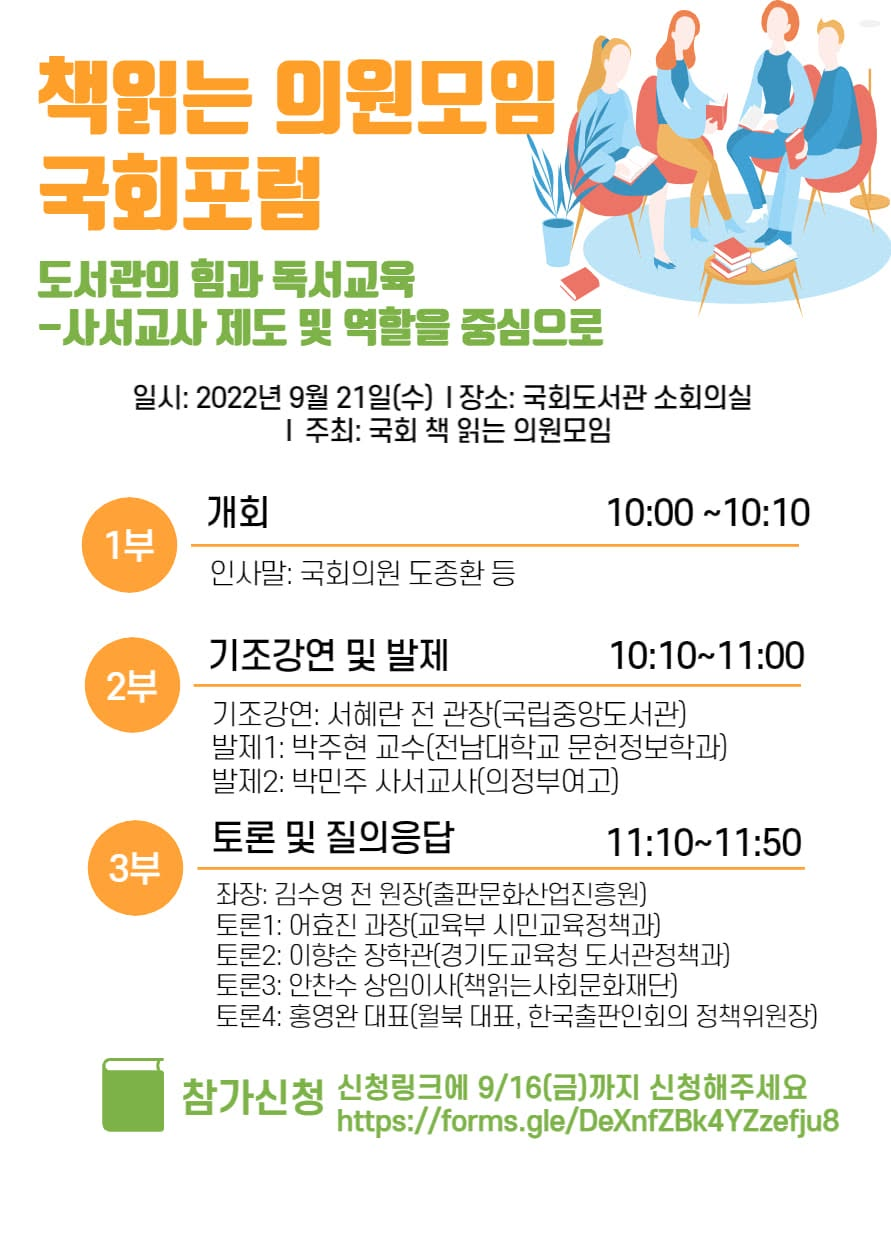
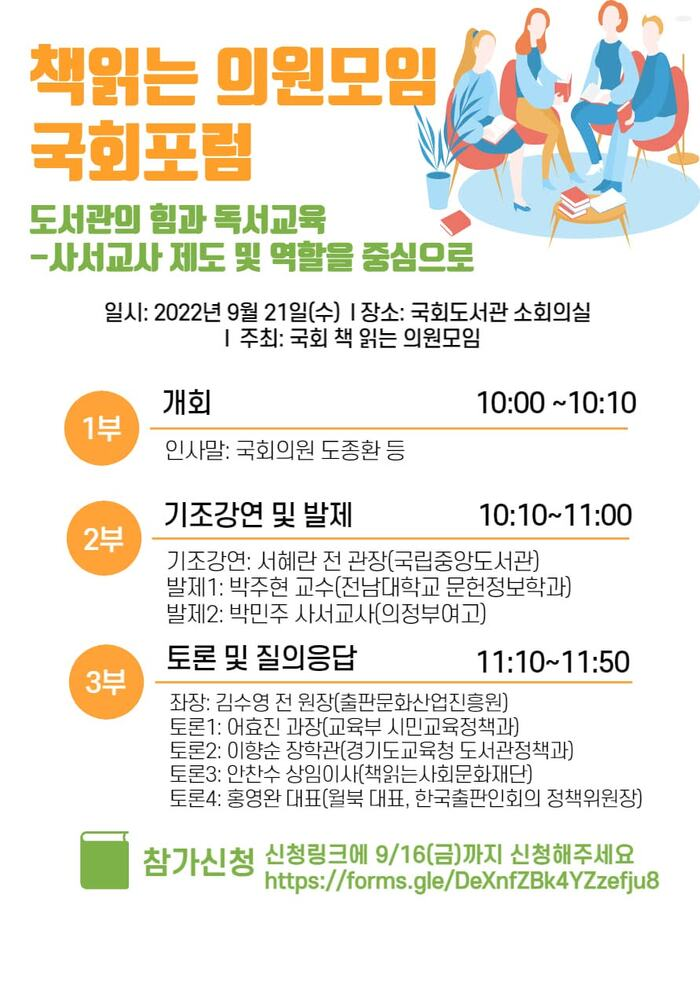
포스터 8장 모두 게시: 새 발표·토론 3건, 포스터 모음 구역, 이미지 700px로 축소
- 2023.11.09 5·18기록물 학술포럼 토론, 2024.05.30 글로컬 박람회 공공도서관 포럼 주제발표,
  2026.02.06 AI시대 독서인문교육 진흥 토론회 주제발표 기록 추가
- 미디어 페이지에 '포스터로 보는 발표·토론' 모음(작은 크기, 누르면 원본)
- 포스터 파일을 가로 700px 이하로 줄여 용량 감소, 대표 카드 포스터 높이 축소

Claude-Session: https://claude.ai/code/session_01QAEQGUMJ4TmmKtuTwDoHCS

diff --git a/assets/css/style.css b/assets/css/style.css
@@ -753,8 +753,8 @@ textarea { resize: vertical; min-height: 100px; line-height: 1.6; }
 .media-card__thumb { aspect-ratio: 16 / 9; background: var(--surface-2); overflow: hidden; }
 .media-card__thumb img { width: 100%; height: 100%; object-fit: cover; display: block; }
 /* 포스터는 세로가 길어 잘라 내지 않고 통째로 보여 줍니다. */
-.media-card__thumb--poster { aspect-ratio: auto; max-height: 420px; display: flex; justify-content: center; }
-.media-card__thumb--poster img { width: auto; max-width: 100%; height: auto; max-height: 420px; object-fit: contain; }
+.media-card__thumb--poster { aspect-ratio: auto; max-height: 320px; display: flex; justify-content: center; }
+.media-card__thumb--poster img { width: auto; max-width: 100%; height: auto; max-height: 320px; object-fit: contain; }
 .media-card__body { padding: 1.1rem 1.25rem 1.25rem; display: flex; flex-direction: column; gap: .35rem; }
 .media-card__title { font-family: var(--font-serif); font-size: 1.1rem; line-height: 1.45; margin: .2rem 0 0; }
 .media-card__title a { color: var(--ink); }
@@ -918,3 +918,14 @@ textarea { resize: vertical; min-height: 100px; line-height: 1.6; }
 .en-pubs__title { grid-column: 1; font-weight: 500; }
 .en-pubs li > .small { grid-column: 1; }
 .en-pubs__cites { grid-column: 2; grid-row: 1 / span 2; font-weight: 700; color: var(--navy); white-space: nowrap; font-variant-numeric: tabular-nums; }
+
+/* ---------- 18. 미디어 페이지 포스터 모음 ---------- */
+.poster-wall { list-style: none; margin: 0; padding: 0; display: grid; gap: 1rem;
+  grid-template-columns: repeat(auto-fill, minmax(150px, 1fr)); }
+.poster-wall a { display: grid; gap: .4rem; color: inherit; text-decoration: none; }
+.poster-wall img { width: 100%; aspect-ratio: 7 / 10; object-fit: cover; object-position: top;
+  border-radius: 8px; border: 1px solid var(--line); background: var(--surface-2); transition: transform .15s, box-shadow .15s; }
+.poster-wall a:hover img, .poster-wall a:focus-visible img { transform: translateY(-2px); box-shadow: 0 6px 18px rgb(0 0 0 / .12); }
+.poster-wall__date { font-size: .78rem; color: var(--ink-faint); font-variant-numeric: tabular-nums; }
+.poster-wall__title { font-size: .85rem; line-height: 1.4; display: -webkit-box; -webkit-line-clamp: 2; -webkit-box-orient: vertical; overflow: hidden; }
+@media (max-width: 420px) { .poster-wall { grid-template-columns: repeat(2, minmax(0, 1fr)); gap: .8rem; } }

diff --git a/assets/js/media.js b/assets/js/media.js
@@ -23,6 +23,7 @@
       document.getElementById('total').textContent = String(DATA.items.length);
       renderStats();
       renderFeatured();
+      renderPosters();
       renderUpcoming();
       buildFilters();
       render();
@@ -137,6 +138,24 @@
       </article>`;
     }).join('');
     revealImageLinks(document.getElementById('featured'));
+  }
+
+  /* ---------- 포스터 모음 ---------- */
+  function renderPosters() {
+    const list = DATA.items.filter((x) => x.image);
+    if (!list.length) return;
+    const box = document.getElementById('posters');
+    box.innerHTML = list.map((x) => `
+      <li>
+        <a href="${esc(x.image)}" target="_blank" rel="noopener">
+          <img src="${esc(x.image)}" alt="${esc(x.title)} 포스터" loading="lazy" width="700" height="1000"
+               onerror="this.closest('li').remove()">
+          <span class="poster-wall__date">${esc(fmtMediaDate(x))}</span>
+          <span class="poster-wall__title">${esc(x.title)}</span>
+        </a>
+      </li>`).join('');
+    document.getElementById('poster-count').textContent = String(list.length);
+    document.getElementById('posters-wrap').hidden = false;
   }
 
   /* ---------- 예정 ---------- */

diff --git a/media.html b/media.html
@@ -56,6 +56,18 @@
     </div>
   </section>
 
+  <!-- 포스터 모음: image 가 있는 기록을 모두 작은 크기로 -->
+  <section class="section" id="posters-wrap" style="padding-top:0" hidden>
+    <div class="wrap">
+      <div class="section-head">
+        <p class="eyebrow">POSTERS</p>
+        <h2>포스터로 보는 발표·토론 <span class="muted" style="font-size:.6em; font-weight:500"><span id="poster-count">0</span>장</span></h2>
+        <p>누르면 포스터를 크게 볼 수 있습니다.</p>
+      </div>
+      <ul class="poster-wall" id="posters"></ul>
+    </div>
+  </section>
+
   <!-- 예정 -->
   <section class="section" id="upcoming-wrap" style="padding-top:0; display:none">
     <div class="wrap">
